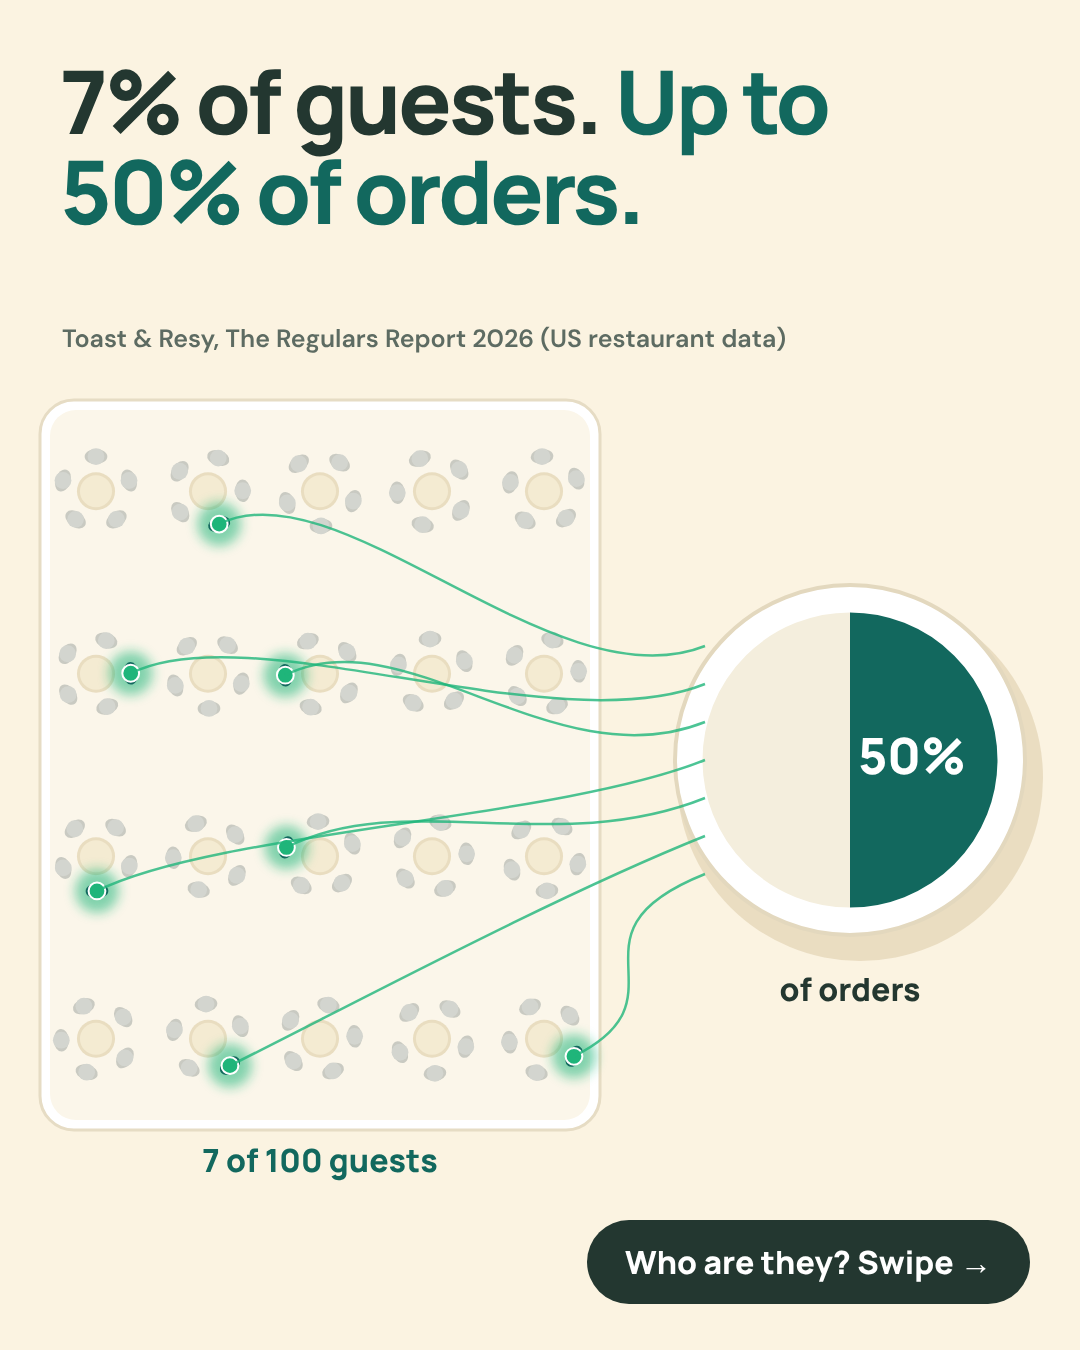
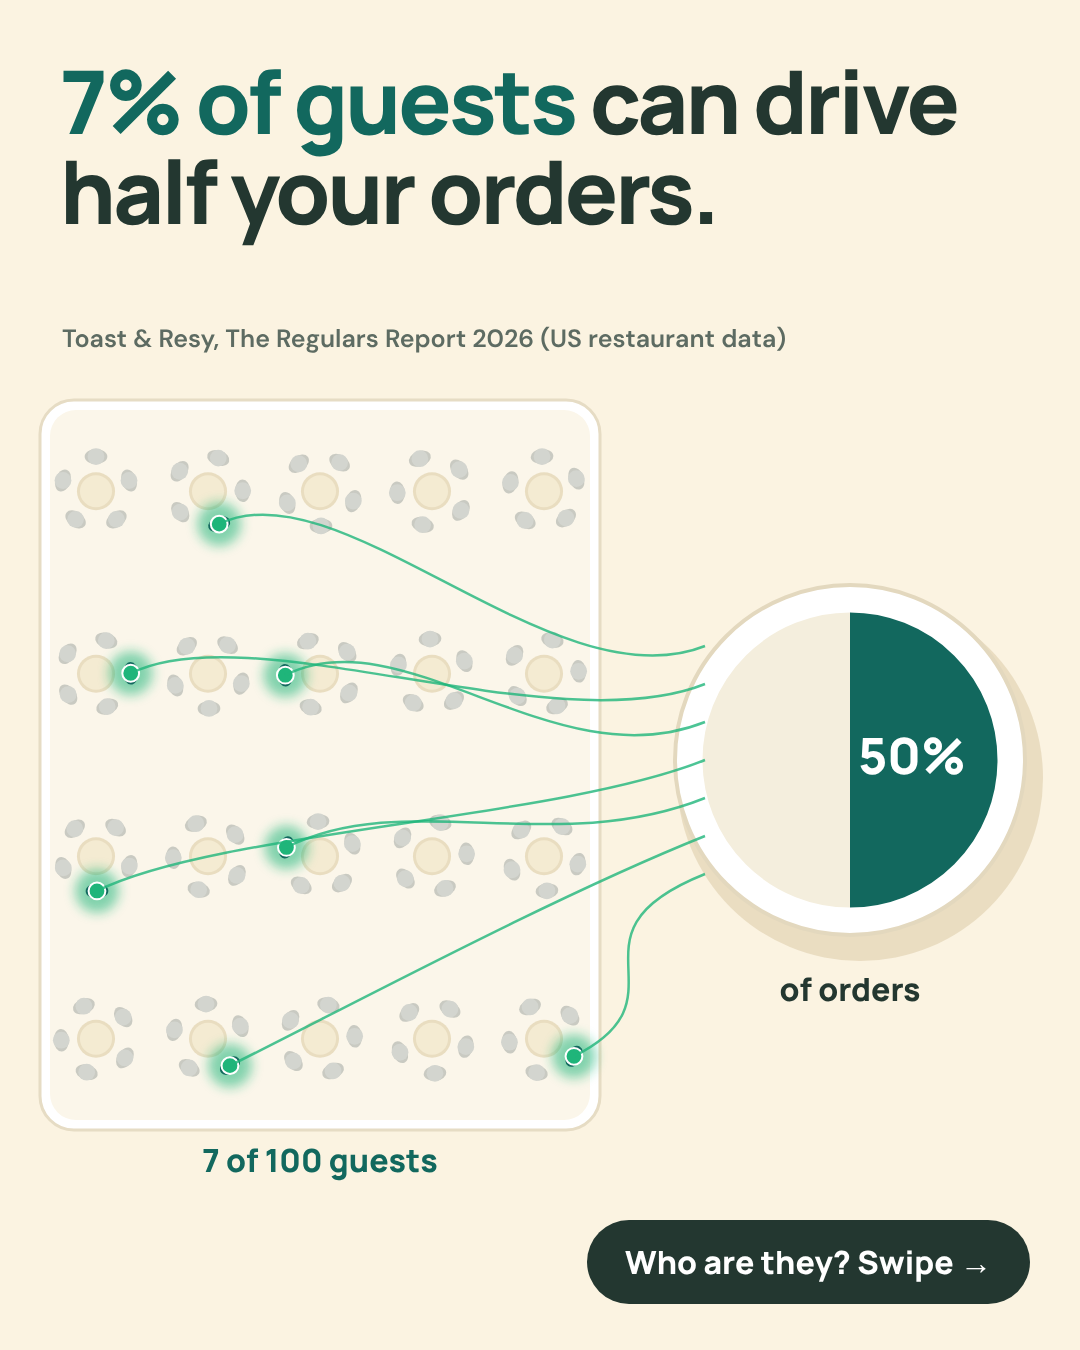
Slide 1 headline: 7% of guests can drive half your orders
Claude-Session: https://claude.ai/code/session_01765UJcZ9RwUQSuEAPvDGN4

Changed region(s): [[0.0611, 0.0311, 0.8861, 0.1867]]

diff --git a/carousel3/slides.html b/carousel3/slides.html
@@ -14,7 +14,7 @@ svg.a{position:absolute;left:0;top:0}
 .card{position:absolute;background:#fff;border:2px solid var(--line);border-radius:32px;box-shadow:0 10px 0 #EFE3C8}
 </style></head><body>
 <div class="s" id="s1"><svg class="a" id="a1" width="1080" height="1350"></svg>
- <div class="h" style="top:56px;font-size:88px">7% of guests. <span style="color:var(--green)">Up to 50% of orders.</span></div>
+ <div class="h" style="top:56px;font-size:88px"><span style="color:var(--green)">7% of guests</span> can drive half your orders.</div>
  <div class="src" style="left:62px;top:322px">Toast &amp; Resy, The Regulars Report 2026 (US restaurant data)</div>
  <div class="pill" style="right:50px;bottom:46px;background:var(--ink);color:#fff;padding:20px 38px">Who are they? Swipe →</div></div>
 
